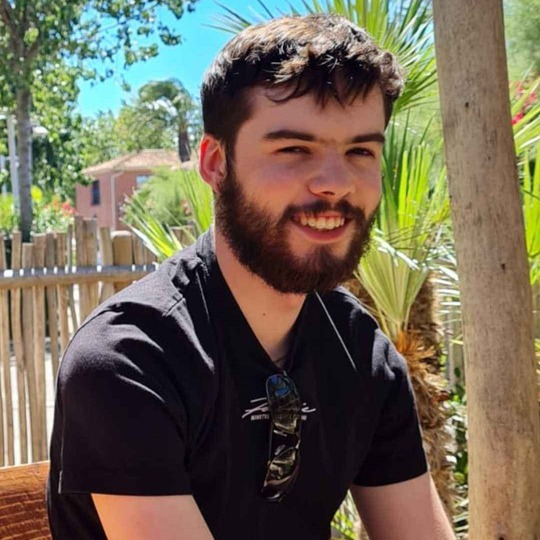
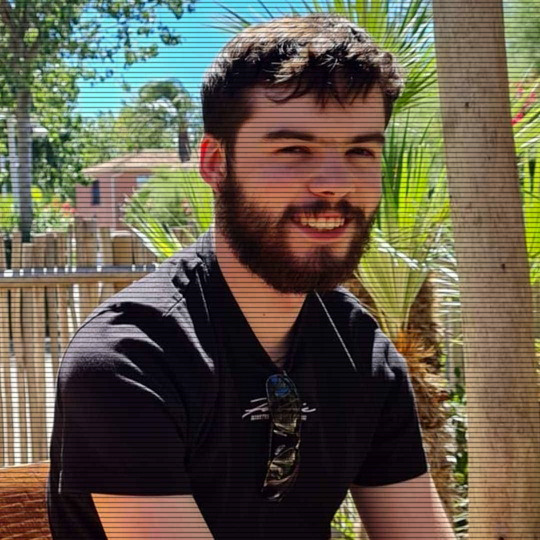
More fixes (UI on phone specifically) + cool scanlines on image

Changed region(s): [[0.0, 0.0, 1.0, 1.0], [0.1778, 0.9185, 0.3852, 1.0]]

diff --git a/about.html b/about.html
@@ -12,7 +12,7 @@
             <ul>
                 <li style="border: 3px white dotted; padding: 6px;"><a href="index.html">Home</a></li>
                 <li style="border: 3px white dotted; padding: 6px;"><a href="about.html">About Me</a></li>
-                <li style="border: 3px white dotted; padding: 6px;"><a href="interests.html">My Interests</a></li>
+                <li style="border: 3px white dotted; padding: 6px;"><a href="interests.html">Interests</a></li>
                 <li style="border: 3px white dotted; padding: 6px;"><a href="contact.html">Contacts & Links</a></li>
             </ul>
         </div>
@@ -35,6 +35,7 @@
                 <h4>October 2021 - February 2024</h4>
                 <p>While working in the hospitality industry, I was employed part-time at Ballyfin House for 2 years, as both a waiter and bartender. Here I worked as a part of a dynamic team where I learned the skills to adapt to challenging siutations, maintain composure under pressure, and consistently provide excellent service. My roles here involved taking requests, relaying information to my team and ensuring customer satisfaction.</p>
                 <h3>Workday</h3>
+                <img src="src\imgs\workdayscanline.png" style="max-width: 100%; height: auto;">
                 <h4>February 2024 - August 2024</h4>
                 <p>I interned at Workday as a Software Development Engineer as a part of my 3rd year university curriculum. Here I was a part of a DevOps team working on the cloud infrastructure. Here I've had the experience to touch on many different technologies such as Kubernetes, Docker, Terraform, AWS and many others.</p>
             </div>

diff --git a/index.html b/index.html
@@ -10,10 +10,10 @@
     <header>
         <div class = navbar>
             <ul>
-                <li style="border: 3px white dotted; padding: 6px;"><a href="index.html">Home</a></li>
-                <li style="border: 3px white dotted; padding: 6px;"><a href="about.html">About Me</a></li>
-                <li style="border: 3px white dotted; padding: 6px;"><a href="interests.html">My Interests</a></li>
-                <li style="border: 3px white dotted; padding: 6px;"><a href="contact.html">Contacts & Links</a></li>
+                <li><a href="index.html">Home</a></li>
+                <li><a href="about.html">About Me</a></li>
+                <li><a href="interests.html">Interests</a></li>
+                <li><a href="contact.html">Contacts & Links</a></li>
             </ul>
         </div>
     </header>

diff --git a/interests.html b/interests.html
@@ -11,7 +11,7 @@
             <ul>
                 <li><a href="index.html">Home</a></li>
                 <li><a href="about.html">About Me</a></li>
-                <li><a href="interests.html">My Interests</a></li>
+                <li><a href="interests.html">Interests</a></li>
                 <li><a href="contact.html">Contacts & Links</a></li>
             </ul>
         </div>
@@ -19,7 +19,7 @@
 
     <body>
         <div class = main>
-            <h1>My Interests</h1>
+            <h1>Interests</h1>
             <div class = interests>
                 <h2>Video Games</h2>
                 <p>One of my main passions is video games. My first console (or handheld to be technical) was a Nintendo DS. 

diff --git a/contact.html b/contact.html
@@ -12,7 +12,7 @@
             <ul>
                 <li style="border: 3px white dotted; padding: 6px;"><a href="index.html">Home</a></li>
                 <li style="border: 3px white dotted; padding: 6px;"><a href="about.html">About Me</a></li>
-                <li style="border: 3px white dotted; padding: 6px;"><a href="interests.html">My Interests</a></li>
+                <li style="border: 3px white dotted; padding: 6px;"><a href="interests.html">Interests</a></li>
                 <li style="border: 3px white dotted; padding: 6px;"><a href="contact.html">Contacts & Links</a></li>
             </ul>
         </div>

diff --git a/style.css b/style.css
@@ -28,13 +28,17 @@ body {
 
 .main {
     font-family: 'Arcade';
+    padding: 6px;
 }
 
-li {
+.navbar li {
     display: inline;
     font-family: 'Arcade';
-    padding: 3px;
+    border: 3px white dotted;
+    padding: 6px;
     color: white;
+    text-align: left;
+    margin: 5px;
 }
 
 a:visited {
@@ -45,3 +49,16 @@ a:visited {
 img {
     border: 3px dotted white;
 }
+
+@media screen and (max-width: 580px) {
+    .navbar {
+      float: left;
+      align-items: left;
+    }
+    .navbar li {
+      float: none;
+      display: block;
+      text-align: left;
+      margin: 10px;
+    }
+  }
